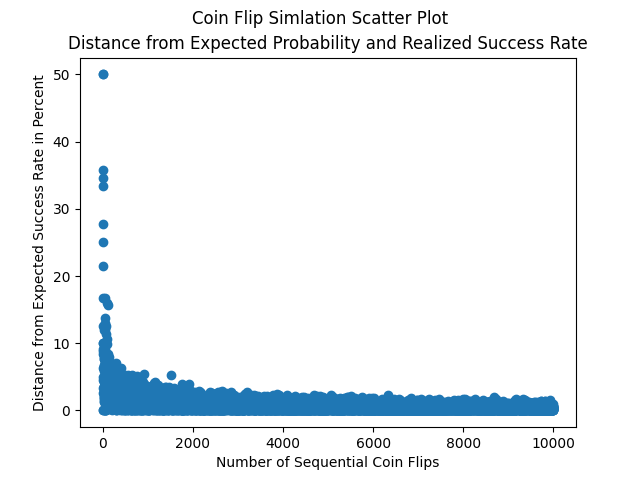
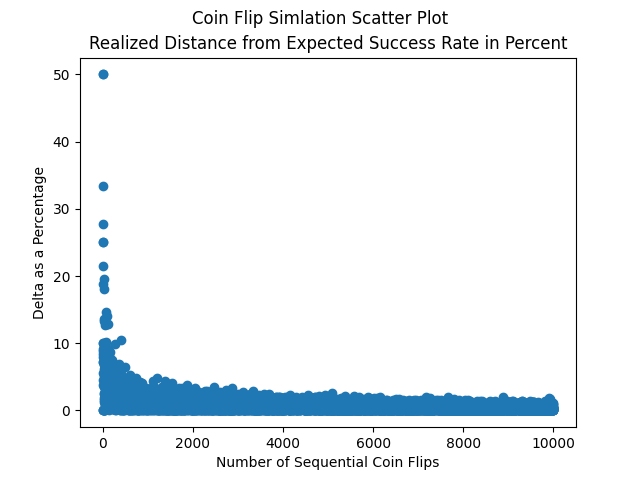
Cleaned Output

diff --git a/main.py b/main.py
@@ -12,9 +12,9 @@ for i in range(0, len(trials)):
 #generate outcome
 plt.scatter(*zip(*outcome_list))
 plt.suptitle('Coin Flip Simlation Scatter Plot')
-plt.title('Distance from Expected Probability and Realized Success Rate')
+plt.title('Realized Distance from Expected Success Rate in Percent')
 plt.xlabel('Number of Sequential Coin Flips')
-plt.ylabel('Distance from Expected Success Rate in Percent')
+plt.ylabel('Delta as a Percentage')
 plt.savefig('output_plot.png')
 
 
